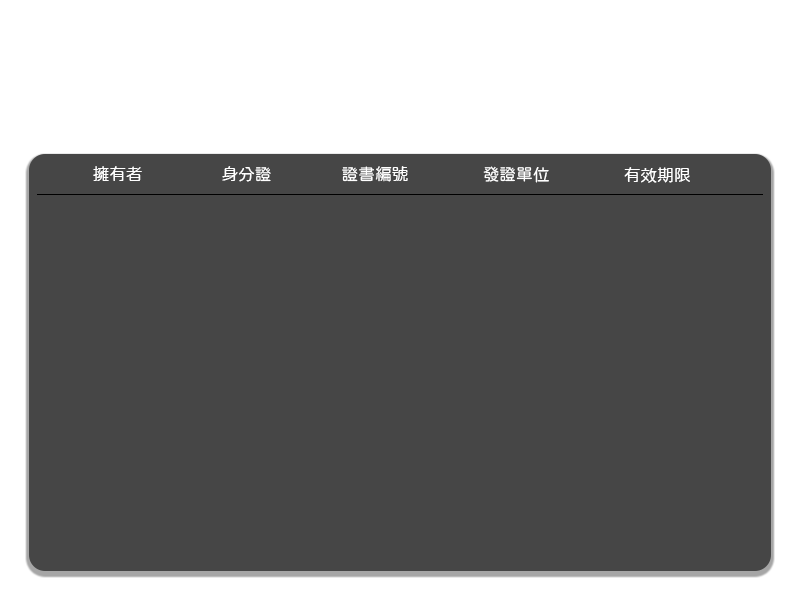
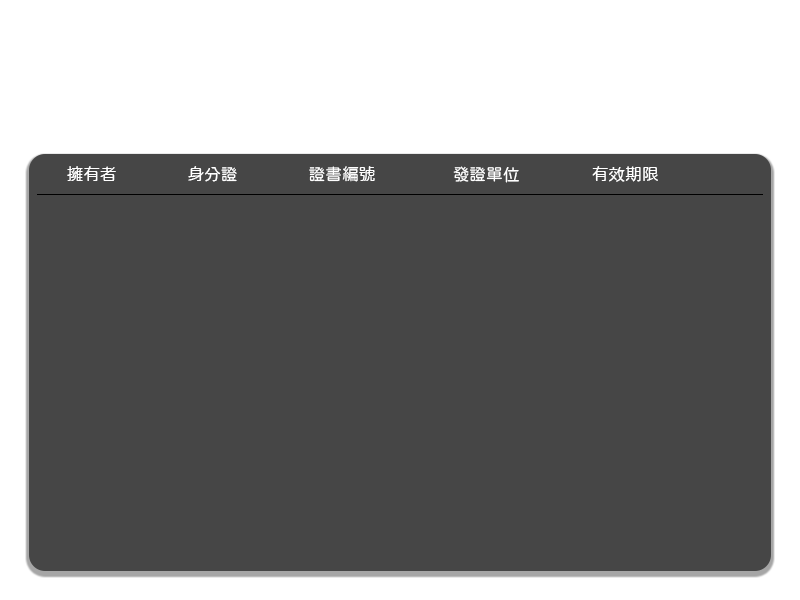
update DataTable

diff --git a/src/upload_window/GUI.java b/src/upload_window/GUI.java
@@ -48,6 +48,7 @@ public class GUI {
     private JLabel upload_certificate_btn;
     private JLabel upload_json_btn;
     private JLabel add_new_data_btn;
+    private JLabel yes_btn;
 
     private ToggleBtn vaild_period_btn;
     private Button dialog_yes_btn;
@@ -80,7 +81,7 @@ public class GUI {
     private ArrayList<String> certification = new ArrayList<>();
     private DataTable dataTable = new DataTable();
     JSONObject bao = new JSONObject(
-            "{\"certificateID\":\"5\",\"issuer\":\"Tom\",\"ownerID\":\"yellow\",\"ownerName\":\"asset13\",\"vaildPeriod\":\"1300\"}");
+            "{\"certificateID\":\"#123456789\",\"issuer\":\"NTCU\",\"ownerID\":\"R124760286\",\"ownerName\":\"BigGrayBao\",\"vaildPeriod\":\"1999/02/11\"}");
 
     public void show() {
         window.repaint();
@@ -168,13 +169,25 @@ public class GUI {
 
             @Override
             public void mouseClicked(MouseEvent e) {
+                add_new_data_dialog = new SPDialog(350, 200);
+                add_new_data_dialog.setLocationRelativeTo(window);
+                add_new_data_dialog.setBackgroundColor(new Color(255, 255, 255, 200));
+                yes_btn = new JLabel("", add_new_data, JLabel.CENTER);
+                yes_btn.setBounds(60, 110, 110, 50);
+                yes_btn.addMouseListener(new MouseAdapter() {
+                    @Override
+                    public void mouseClicked(MouseEvent e) {
+                        System.out.println("Yes");
+                        add_new_data_dialog.setVisible(false);
+                    }
+                });
+                yes_btn.setVisible(true);
+                add_new_data_dialog.add(yes_btn, Integer.valueOf(500));
+                add_new_data_dialog.setVisible(true);
                 dataTable.addData(bao);
-                // add_new_data_dialog = new SPDialog(350, 200);
-                // add_new_data_dialog.setLocationRelativeTo(window);
-                // add_new_data_dialog.setVisible(true);
             }
         });
-        window.addi(add_new_data_btn, 300);
+        window.addi(add_new_data_btn);
 
         upload_json_btn = new JLabel("", upload_json, JLabel.CENTER);
         upload_json_btn.setBounds(600, 75, 180, 50);
@@ -207,7 +220,7 @@ public class GUI {
                 load_json_dialog.setVisible(true);
             }
         });
-        window.addi(upload_json_btn, 200);
+        window.addi(upload_json_btn);
 
         // JSONObject bao = new JSONObject(
         // "{\"certificateID\":\"5\",\"issuer\":\"Tom\",\"ownerID\":\"yellow\",\"ownerName\":\"asset13\",\"vaildPeriod\":\"1300\"}");
@@ -352,16 +365,16 @@ public class GUI {
                 dialog.setLocationRelativeTo(window);
                 dialog.setBackgroundColor(new Color(255, 44, 140, 240));
 
-                dialog_yes_btn = new Button(100, 40, 24, null, white, "Yes", 16);
-                dialog_yes_btn.setBounds(60, 110, 110, 50);
-                dialog_yes_btn.setVisible(true);
-                dialog_yes_btn.addMouseListener(new MouseAdapter() {
-                    @Override
-                    public void mouseClicked(MouseEvent e) {
-                        System.out.println("Yes");
-                        dialog.setVisible(false);
-                    }
-                });
+                // dialog_yes_btn = new Button(100, 40, 24, null, white, "Yes", 16);
+                // dialog_yes_btn.setBounds(60, 110, 110, 50);
+                // dialog_yes_btn.setVisible(true);
+                // dialog_yes_btn.addMouseListener(new MouseAdapter() {
+                // @Override
+                // public void mouseClicked(MouseEvent e) {
+                // System.out.println("Yes");
+                // dialog.setVisible(false);
+                // }
+                // });
                 dialog_no_btn = new Button(100, 40, 24, null, white, "No", 16);
                 dialog_no_btn.setBounds(200, 110, 110, 50);
                 dialog_no_btn.setVisible(true);
@@ -381,7 +394,7 @@ public class GUI {
                 dialog_txt.setVisible(true);
                 dialog_txt2.setVisible(true);
 
-                dialog.addi(dialog_yes_btn);
+                // dialog.addi(dialog_yes_btn);
                 dialog.addi(dialog_no_btn);
                 dialog.addi(dialog_txt);
                 dialog.addi(dialog_txt2);

diff --git a/src/upload_window/DataTable.java b/src/upload_window/DataTable.java
@@ -28,7 +28,7 @@ public class DataTable extends JComponent {
         int length = (data.size() >= 8) ? 8 : data.size();
         for (int i = 0; i < length; i++) {
             DataTableItem item = new DataTableItem(data.get(i));
-            item.setBounds(0, this.getComponentCount() * 42, 600, 50);
+            item.setBounds(0, this.getComponentCount() * 42, 800, 50);
             add(item);
         }
         this.repaint();
@@ -47,33 +47,33 @@ class DataTableItem extends JComponent {
 
     public DataTableItem(JSONObject data_info) {
         ownerName.setForeground(Color.WHITE);
-        ownerName.setFont(new Font("Microsoft Tai Le", Font.PLAIN, 20));
+        ownerName.setFont(new Font("Microsoft Tai Le", Font.PLAIN, 18));
         ownerName.setText(data_info.getString("ownerName"));
-        ownerName.setBounds(10, 0, 200, 50);
+        ownerName.setBounds(15, 0, 200, 50);
         add(ownerName);
 
         ownerID.setForeground(Color.WHITE);
-        ownerID.setFont(new Font("Microsoft Tai Le", Font.PLAIN, 20));
+        ownerID.setFont(new Font("Microsoft Tai Le", Font.PLAIN, 18));
         ownerID.setText(data_info.getString("ownerID"));
-        ownerID.setBounds(110, 0, 200, 50);
+        ownerID.setBounds(138, 0, 200, 50);
         add(ownerID);
 
         certificateID.setForeground(Color.WHITE);
-        certificateID.setFont(new Font("Microsoft Tai Le", Font.PLAIN, 20));
+        certificateID.setFont(new Font("Microsoft Tai Le", Font.PLAIN, 18));
         certificateID.setText(data_info.getString("certificateID"));
-        certificateID.setBounds(210, 0, 200, 50);
+        certificateID.setBounds(260, 0, 200, 50);
         add(certificateID);
 
         issuer.setForeground(Color.WHITE);
-        issuer.setFont(new Font("Microsoft Tai Le", Font.PLAIN, 20));
+        issuer.setFont(new Font("Microsoft Tai Le", Font.PLAIN, 18));
         issuer.setText(data_info.getString("issuer"));
-        issuer.setBounds(310, 0, 200, 50);
+        issuer.setBounds(405, 0, 200, 50);
         add(issuer);
 
         vaildPeriod.setForeground(Color.WHITE);
-        vaildPeriod.setFont(new Font("Microsoft Tai Le", Font.PLAIN, 20));
+        vaildPeriod.setFont(new Font("Microsoft Tai Le", Font.PLAIN, 18));
         vaildPeriod.setText(data_info.getString("vaildPeriod"));
-        vaildPeriod.setBounds(410, 0, 200, 50);
+        vaildPeriod.setBounds(543, 0, 200, 50);
         add(vaildPeriod);
     }
 }
